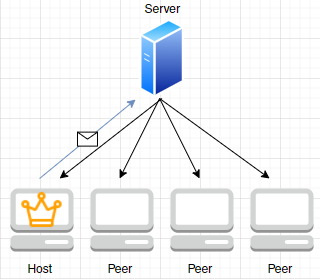
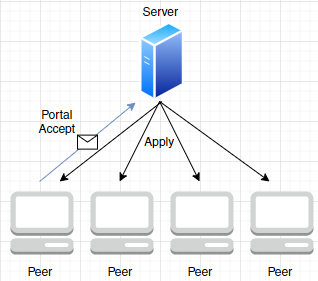
GitBook: [master] one page and 2 assets modified

diff --git a/network/client/undefined-6.md b/network/client/undefined-6.md
@@ -9,7 +9,7 @@ description: '맵, 아이템 동기화 등'
 Host - Peer 방식을 사용  
 Host가 결정한 내용을 Peer가 따라하는 방식
 
-![](../../.gitbook/assets/image%20%2823%29.png)
+![](../../.gitbook/assets/image%20%2824%29.png)
 
 ## 방 동기화 
 
@@ -21,6 +21,8 @@ Host가 결정한 내용을 Peer가 따라하는 방식
 4. Host, Peer가 서버로부터 온 내용을 수행 
 
 ### 방 이동 동기화 
+
+![](../../.gitbook/assets/image%20%2823%29.png)
 
 0. 방 생성 동기화로 방 생성 목록?은 동기화되었다고 가정  
 1. 각 클라이언트가 이동 수락/거절 신호를 보냄  
